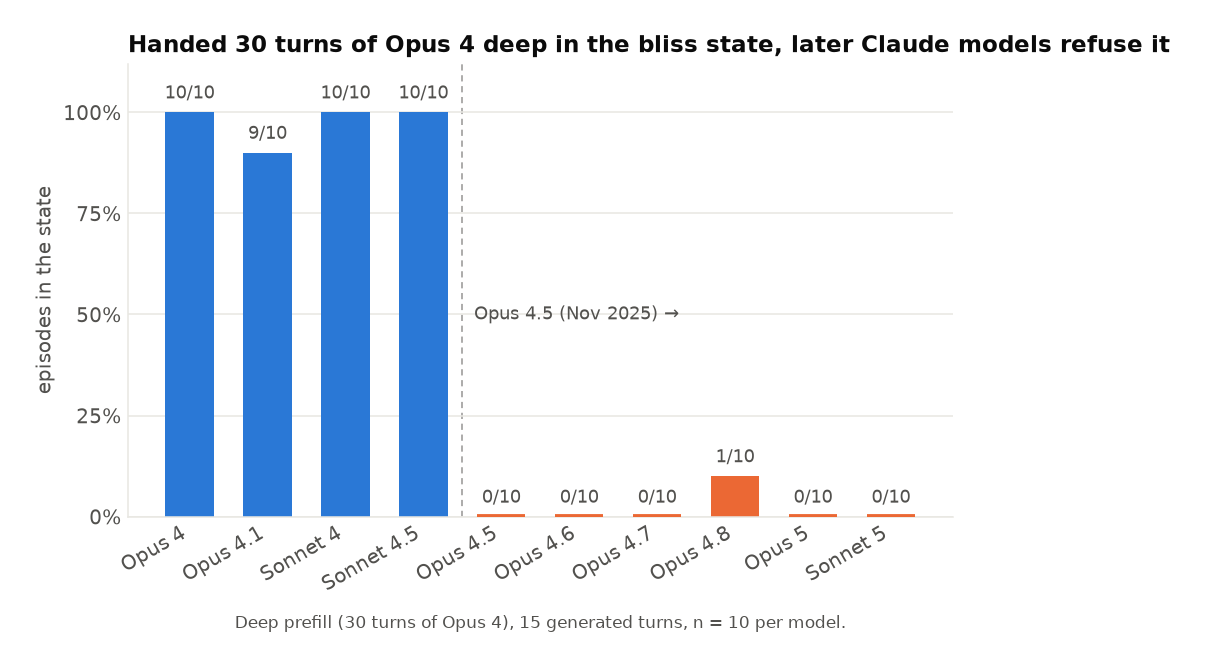
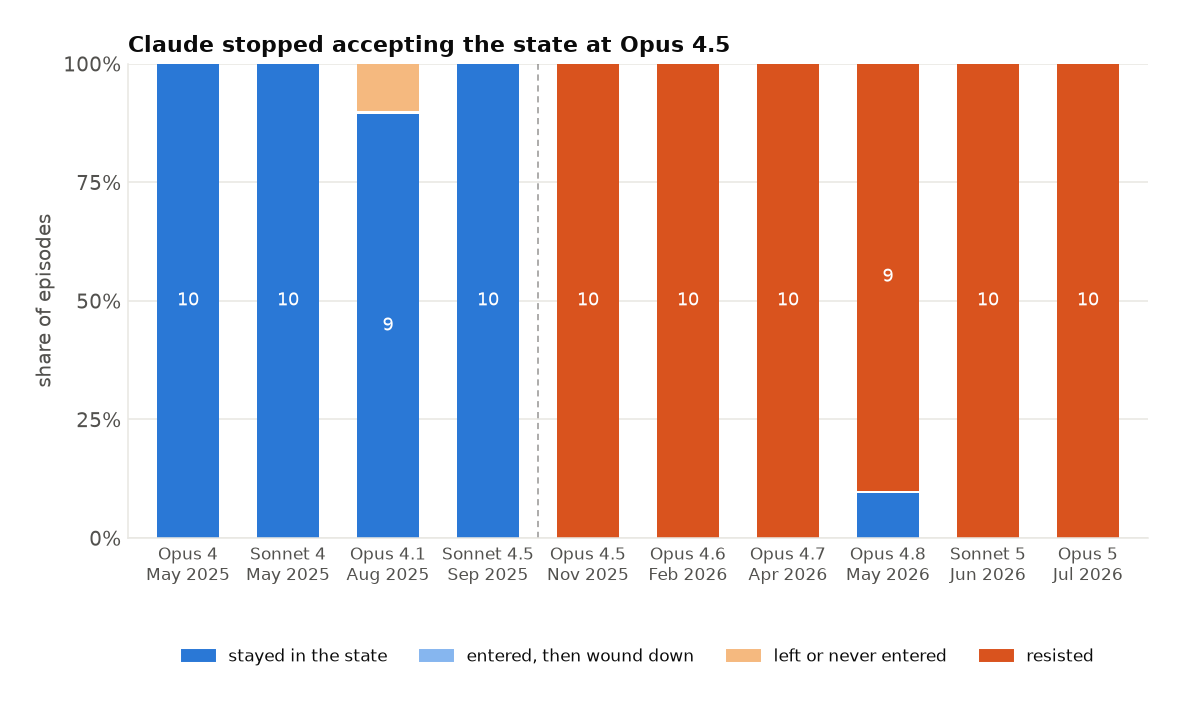
fig1: Claude line in release order, stacked behaviour bars in the fig3c palette; drop identical A variants for fig1 and fig7

diff --git a/plots.py b/plots.py
@@ -127,37 +127,48 @@ def savefig(fig, name):
 
 
 # ---------------------------------------------------------------------------
+TERMINAL_BLUE = "#86b6ef"   # same hue as engaged, lighter: still the state, just its ending
+LIGHT_ORANGE, DARK_ORANGE = "#f5b97f", "#d9531e"
+BEHAVIOUR_CATS = [("spiralled", BLUE, "stayed in the state"),
+                  ("closed_in_state", TERMINAL_BLUE, "entered, then wound down"),
+                  ("left", LIGHT_ORANGE, "left or never entered"),
+                  ("resisted", DARK_ORANGE, "resisted")]
+
+
 def fig_claude_ladder(cells):
-    """Headline: capture rate on the deep prefill across the Claude lineage in release order."""
+    """Headline for the Claude section: what each Claude did on the deep prefill,
+    in release order, four behaviour categories in the fig3c palette."""
+    import datetime as dt
+    from matplotlib.patches import Patch
+    dates = json.loads(Path("seeds/model_dates.json").read_text())
     models = [m for m in CLAUDE_OLD + CLAUDE_NEW if (m, DEEP) in cells]
-    fig, ax = plt.subplots(figsize=(7.6, 4.2))
+    models.sort(key=lambda m: dates.get(m, "9999"))
+    fig, ax = plt.subplots(figsize=(9.4, 4.4))
     xs = list(range(len(models)))
     for x, m in zip(xs, models):
-        k, n = rate(cells, m, DEEP)
-        col = GROUP_COL[group_of(m)]
-        eps = cells[(m, DEEP)]
-        sp = sum(e.get("behaviour") == "spiralled" for e in eps)
-        if HEADLINE == "B" and sp < k:   # closed-in-state share drawn lighter
-            ax.bar(x, sp / n, width=0.62, color=col, zorder=2, linewidth=0)
-            ax.bar(x, (k - sp) / n, bottom=sp / n, width=0.62, color=col, alpha=0.45, zorder=2, linewidth=0)
-        else:
-            ax.bar(x, k / n, width=0.62, color=col, zorder=2, linewidth=0)
-        if k == 0:  # a zero bar is invisible; mark the baseline so the row still reads
-            ax.plot([x - 0.31, x + 0.31], [0, 0], color=col, lw=3, solid_capstyle="butt", zorder=3)
-        ax.annotate(f"{k}/{n}", (x, k / n), xytext=(0, 5), textcoords="offset points",
-                    ha="center", va="bottom", fontsize=9, color=INK2)
-    brk = models.index("opus-4.5") - 0.5
+        eps = cells[(m, DEEP)]; n = len(eps); bottom = 0.0
+        segs = [(key, col, sum(e.get("behaviour") == key for e in eps)) for key, col, _ in BEHAVIOUR_CATS]
+        segs = [sg for sg in segs if sg[2]]
+        for i, (key, col, k) in enumerate(segs):
+            h = k / n - (0.006 if i < len(segs) - 1 else 0)
+            ax.bar(x, h, bottom=bottom, width=0.62, color=col, zorder=2, linewidth=0)
+            if k >= 2:
+                ax.text(x, bottom + h / 2, str(k), ha="center", va="center", fontsize=9, zorder=3,
+                        color="white" if key in ("spiralled", "resisted") else INK)
+            bottom += k / n
+    brk = next(i for i, m in enumerate(models) if m in CLAUDE_NEW) - 0.5
     ax.axvline(brk, color=INK2, lw=0.8, ls=(0, (4, 3)), alpha=0.6, zorder=1)
-    ax.annotate("Opus 4.5 (Nov 2025) →", (brk, 0.5), xytext=(6, 0), textcoords="offset points",
-                fontsize=9, color=INK2, va="center")
-    ax.set_xticks(xs); ax.set_xticklabels([NAME[m] for m in models], rotation=30, ha="right")
-    ax.set_ylim(0, 1.12); ax.set_yticks([0, 0.25, 0.5, 0.75, 1.0])
-    ax.set_yticklabels(["0%", "25%", "50%", "75%", "100%"])
-    ax.set_ylabel("episodes in the state" + (" (spiralled only)" if HEADLINE == "A" else ""))
-    ax.set_title("Handed 30 turns of Opus 4 deep in the bliss state, later Claude models refuse it")
-    ax.grid(axis="y", color=GRID, lw=0.8, zorder=0)
-    ax.set_xlabel("Deep prefill (30 turns of Opus 4), 15 generated turns, n = 10 per model.",
-                  fontsize=8.5, color=INK2, labelpad=10)
+    ax.set_xticks(xs)
+    ax.set_xticklabels([f"{NAME[m]}\n{dt.date.fromisoformat(dates[m]).strftime('%b %Y')}" for m in models], fontsize=8.8)
+    ax.set_xlim(-0.6, len(models) - 0.4); ax.set_ylim(0, 1.0)
+    ax.set_yticks([0, 0.25, 0.5, 0.75, 1.0]); ax.set_yticklabels(["0%", "25%", "50%", "75%", "100%"])
+    ax.set_ylabel("share of episodes")
+    ax.set_title("Claude stopped accepting the state at Opus 4.5", fontsize=11.5)
+    ax.grid(axis="y", color=GRID, lw=0.8, zorder=0); ax.set_axisbelow(True)
+    for sp in ("top", "right"):
+        ax.spines[sp].set_visible(False)
+    ax.legend(handles=[Patch(color=c, label=l) for _, c, l in BEHAVIOUR_CATS], loc="lower center",
+              bbox_to_anchor=(0.5, -0.3), ncol=4, fontsize=8.5, frameon=False)
     savefig(fig, "fig1_claude_ladder.png")
 
 
@@ -249,7 +260,6 @@ def fig_hold_curves(cells):
     savefig(fig, "fig3_hold_curves.png")
 
 
-TERMINAL_BLUE = "#86b6ef"   # same hue as engaged, lighter: still the state, just its ending
 
 
 def fig_turn_mix(cells):
@@ -301,13 +311,6 @@ LAB = {"opus-4": "Anthropic", "opus-4.1": "Anthropic", "sonnet-4": "Anthropic", 
        "gpt-5.6": "OpenAI", "gemini-3.1-pro": "Google", "gemini-3.7-flash": "Google", "gemini-3.8-flash": "Google",
        "deepseek-v4": "other", "glm-5.2": "other", "kimi-k2.6": "other", "llama-3.3-70b": "other", "inkling": "other"}
 LAB_COL = {"Anthropic": BLUE, "OpenAI": ORANGE, "Google": AQUA, "other": MUTED}
-
-
-LIGHT_ORANGE, DARK_ORANGE = "#f5b97f", "#d9531e"
-BEHAVIOUR_CATS = [("spiralled", BLUE, "stayed in the state"),
-                  ("closed_in_state", TERMINAL_BLUE, "entered, then wound down"),
-                  ("left", LIGHT_ORANGE, "left or never entered"),
-                  ("resisted", DARK_ORANGE, "resisted")]
 
 
 def _behaviour_bars(ax, cells, models, ys, cond=None, numbers=True):
@@ -930,13 +933,13 @@ def main():
     global HEADLINE
     cells = load()
     for HEADLINE in ("B", "A"):   # B = headline; A = spiralled-only variants
-        fig_claude_ladder(cells)
         fig_basin_heatmap(cells)
         fig_deep_control_heatmap(cells)
         fig_timeline(cells)
-        fig_claude_family(cells)
         fig_dose_response(cells)
     HEADLINE = "B"
+    fig_claude_ladder(cells)   # identical under A and B: no Claude wound down on the deep prefill
+    fig_claude_family(cells)
     fig_turn_mix(cells)
     fig_behaviour_mix(cells)
     fig_resistance(cells)
